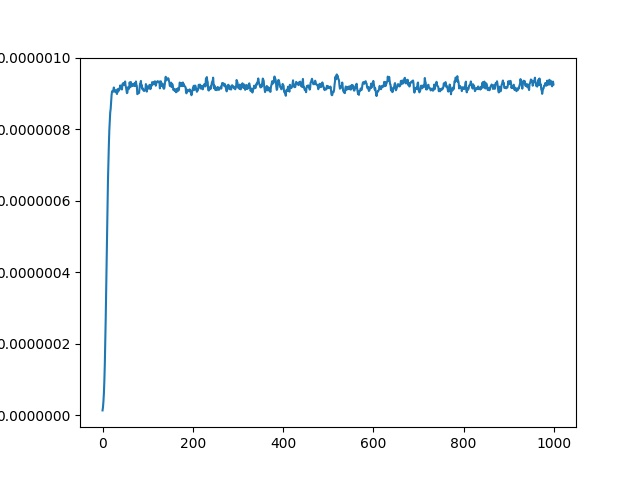
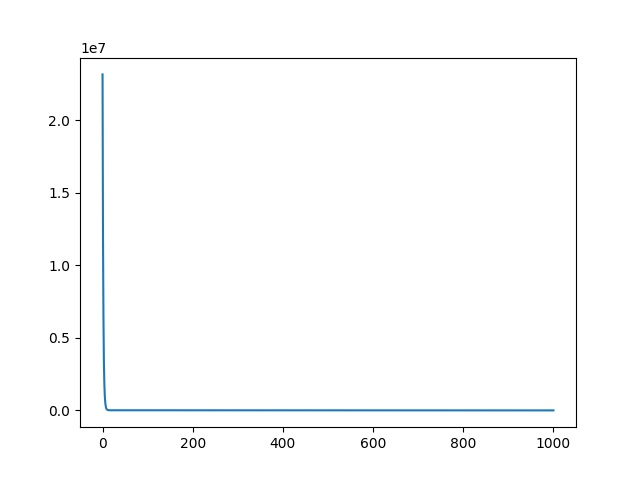
之前最小化函数写错了

diff --git a/cs229/LMS.py b/cs229/LMS.py
@@ -6,6 +6,7 @@ import numpy as np
 import matplotlib.pyplot as plt
 import time
 # 学习直线 y = a * x + b 中的 a,b 参数
+from numpy.linalg import *
 def train():
     # np.random.seed(10) # for the same order
     number_sample = 100000
@@ -27,12 +28,18 @@ def train():
         start = i * batch_size
         end = (i + 1) * batch_size
         theta += lr * np.sum((Y[start : end] - np.dot(X2[start : end], theta)).repeat(2).reshape(batch_size,2) * X2[start:end])
-        predY = X2 * theta
+        predY = np.dot(X2,theta.transpose())
 
-        loss = 1 / (2 * np.sum((predY[:,0] - Y)**2))
+        loss = 1 / 2 * np.sum((predY - Y)**2)
         lossList.append(loss)
         print(theta)
-    plt.plot(range(number_sample//batch_size),lossList)
+    # just one step to get the theta by theta = (XT*X)-1*XT*Y
+    oneStepTheta = np.dot(np.dot(inv(np.dot(X2.transpose(), X2)), X2.transpose()), Y)
+    predY = np.dot(X2, oneStepTheta.transpose())
+    loss = 1 / 2 * np.sum((predY - Y) ** 2)
+    print(loss)
+    lossList.append(loss)
+    plt.plot(range(number_sample//batch_size + 1),lossList)
     # plt.show()
     plt.savefig('loss.jpg')
 
